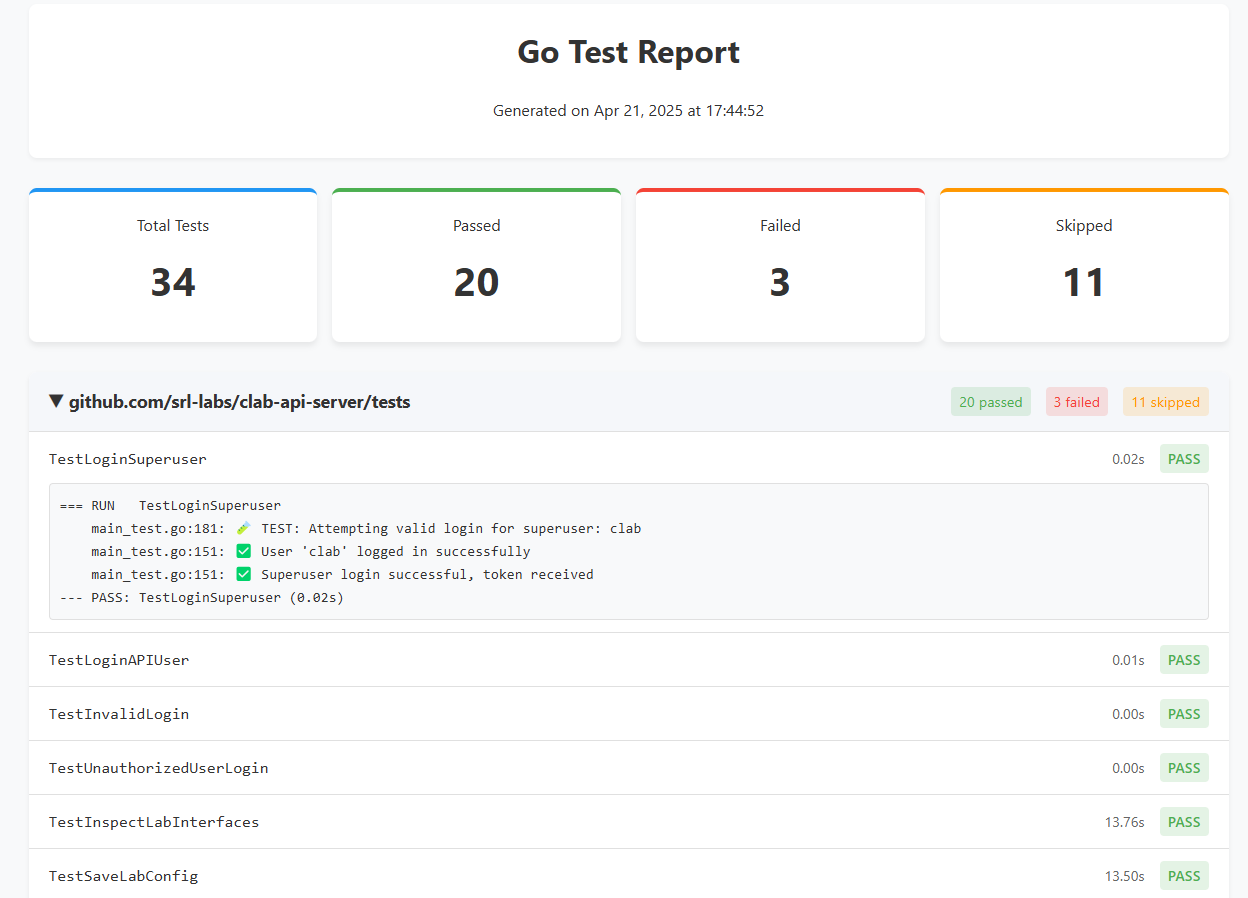
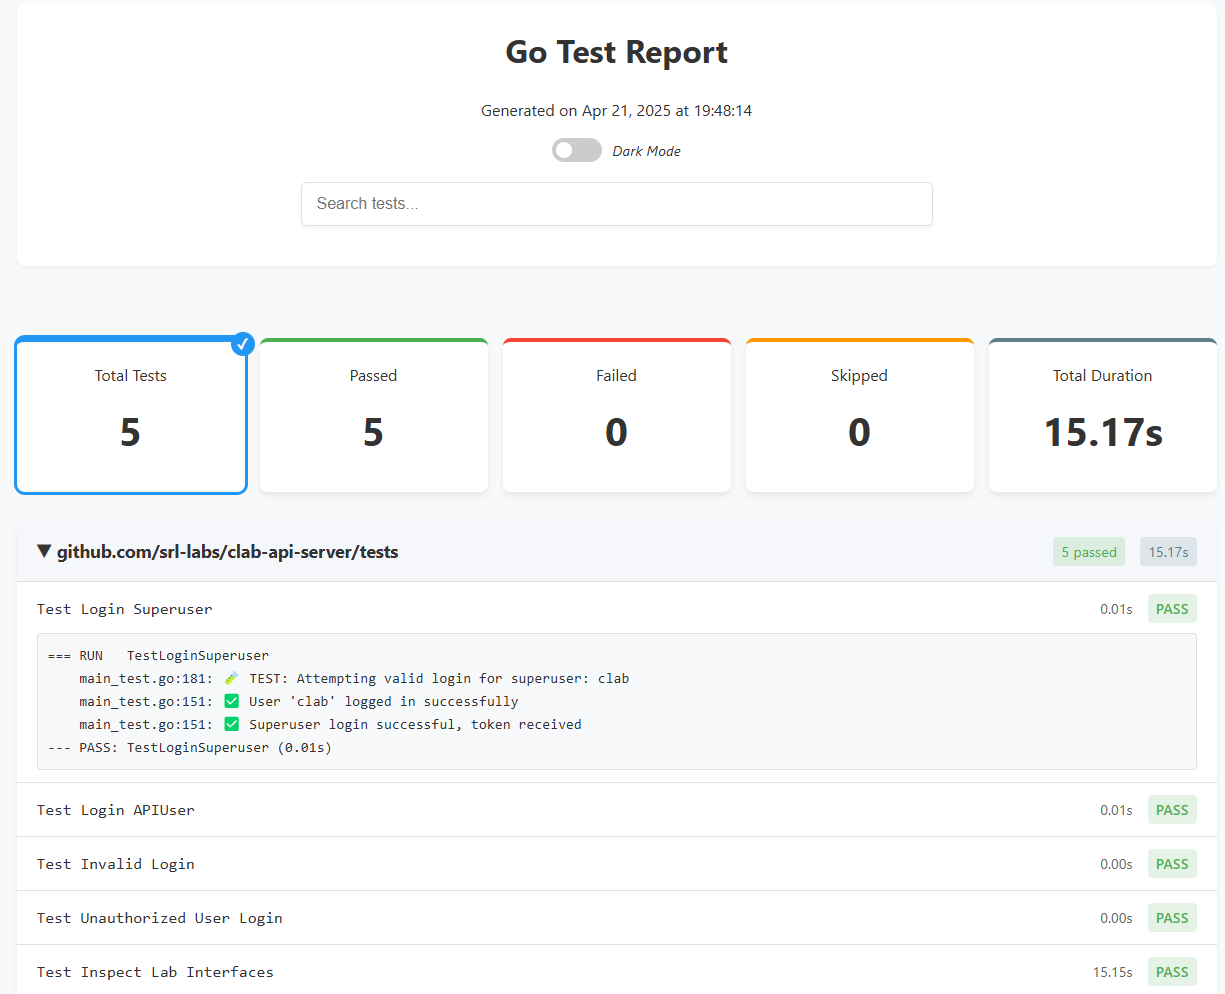
added dark mode

diff --git a/templates/report-styles.css b/templates/report-styles.css
@@ -1,4 +1,5 @@
 :root {
+    /* Light mode colors (default) */
     --success-color: #4caf50;
     --error-color: #f44336;
     --warning-color: #ff9800;
@@ -9,6 +10,26 @@
     --border-color: #e0e0e0;
     --hover-color: #f1f3f5;
     --duration-color: #607d8b;
+    --package-header-bg: #f5f7fa;
+    --test-output-bg: #f8f9fa;
+    --footer-color: #666;
+}
+
+[data-theme="dark"] {
+    /* Dark mode colors */
+    --bg-color: #121212;
+    --card-bg-color: #1e1e1e;
+    --text-color: #e0e0e0;
+    --border-color: #333333;
+    --hover-color: #2c2c2c;
+    --package-header-bg: #252525;
+    --test-output-bg: #252525;
+    --footer-color: #999;
+    /* Keep accent colors similar but with slight adjustments */
+    --success-color: #5cdb5c;
+    --error-color: #ff5252;
+    --warning-color: #ffb74d;
+    --info-color: #64b5f6;
 }
 
 body {
@@ -18,6 +39,7 @@ body {
     background-color: var(--bg-color);
     margin: 0;
     padding: 20px;
+    transition: background-color 0.3s ease, color 0.3s ease;
 }
 
 .container {
@@ -28,7 +50,7 @@ body {
 header {
     text-align: center;
     margin-bottom: 30px;
-    background-color: white;
+    background-color: var(--card-bg-color);
     padding: 20px;
     border-radius: 8px;
     box-shadow: 0 2px 4px rgba(0, 0, 0, 0.05);
@@ -53,6 +75,8 @@ h1, h2, h3 {
     font-size: 16px;
     transition: border-color 0.2s, box-shadow 0.2s;
     box-shadow: 0 2px 4px rgba(0, 0, 0, 0.05);
+    background-color: var(--card-bg-color);
+    color: var(--text-color);
 }
 
 .search-field:focus {
@@ -144,7 +168,7 @@ h1, h2, h3 {
     text-align: center;
     margin-bottom: 20px;
     font-size: 0.9rem;
-    color: #666;
+    color: var(--footer-color);
     min-height: 22px;
     transition: opacity 0.3s ease;
 }
@@ -200,7 +224,7 @@ h1, h2, h3 {
 
 .package-header {
     padding: 15px 20px;
-    background-color: #f5f7fa;
+    background-color: var(--package-header-bg);
     border-bottom: 1px solid var(--border-color);
     cursor: pointer;
     display: flex;
@@ -306,7 +330,7 @@ h1, h2, h3 {
 }
 
 .test-duration {
-    color: #666;
+    color: var(--footer-color);
 }
 
 .test-status {
@@ -331,7 +355,7 @@ h1, h2, h3 {
 }
 
 .test-output {
-    background-color: #f8f9fa;
+    background-color: var(--test-output-bg);
     border: 1px solid var(--border-color);
     border-radius: 4px;
     margin-top: 10px;
@@ -352,7 +376,7 @@ footer {
     text-align: center;
     margin-top: 30px;
     padding-top: 20px;
-    color: #666;
+    color: var(--footer-color);
     font-size: 0.9rem;
 }
 
@@ -370,15 +394,15 @@ footer {
     text-align: center;
     padding: 40px;
     font-size: 1.2rem;
-    color: #666;
-    background: white;
+    color: var(--footer-color);
+    background: var(--card-bg-color);
     border-radius: 8px;
     margin-top: 20px;
     display: none;
 }
 
 .clear-filters {
-    background-color: #f5f7fa;
+    background-color: var(--package-header-bg);
     border: 1px solid var(--border-color);
     border-radius: 4px;
     padding: 4px 8px;
@@ -390,6 +414,68 @@ footer {
 
 .clear-filters:hover {
     background-color: var(--hover-color);
+}
+
+/* Dark mode toggle styles */
+.theme-switch-wrapper {
+    display: flex;
+    align-items: center;
+    margin: 15px auto 0;
+    justify-content: center;
+}
+
+.theme-switch {
+    display: inline-block;
+    height: 24px;
+    position: relative;
+    width: 50px;
+}
+
+.theme-switch input {
+    display: none;
+}
+
+.slider {
+    background-color: #ccc;
+    bottom: 0;
+    cursor: pointer;
+    left: 0;
+    position: absolute;
+    right: 0;
+    top: 0;
+    transition: .4s;
+}
+
+.slider:before {
+    background-color: #fff;
+    bottom: 4px;
+    content: "";
+    height: 16px;
+    left: 4px;
+    position: absolute;
+    transition: .4s;
+    width: 16px;
+}
+
+input:checked + .slider {
+    background-color: var(--info-color);
+}
+
+input:checked + .slider:before {
+    transform: translateX(26px);
+}
+
+.slider.round {
+    border-radius: 34px;
+}
+
+.slider.round:before {
+    border-radius: 50%;
+}
+
+.theme-switch-wrapper em {
+    margin-left: 10px;
+    font-size: 0.9rem;
 }
 
 @media (max-width: 768px) {

diff --git a/templates/report-script.js b/templates/report-script.js
@@ -152,5 +152,63 @@ function toggleOutput(test) {
     }
 }
 
-// Initialize on page load
-document.addEventListener('DOMContentLoaded', initializeFilters);
+// Dark mode theme functionality
+function initTheme() {
+    // Check for saved theme preference or use system preference
+    const savedTheme = localStorage.getItem('theme');
+    const systemPrefersDark = window.matchMedia && window.matchMedia('(prefers-color-scheme: dark)').matches;
+
+    // Set the initial theme
+    if (savedTheme) {
+        document.documentElement.setAttribute('data-theme', savedTheme);
+        if (savedTheme === 'dark') {
+            document.getElementById('checkbox').checked = true;
+        }
+    } else if (systemPrefersDark) {
+        document.documentElement.setAttribute('data-theme', 'dark');
+        document.getElementById('checkbox').checked = true;
+    }
+}
+
+// Toggle theme when switch is clicked
+function toggleTheme() {
+    const checkbox = document.getElementById('checkbox');
+    if (checkbox.checked) {
+        document.documentElement.setAttribute('data-theme', 'dark');
+        localStorage.setItem('theme', 'dark');
+    } else {
+        document.documentElement.setAttribute('data-theme', 'light');
+        localStorage.setItem('theme', 'light');
+    }
+}
+
+// Add event listeners and initialize on page load
+document.addEventListener('DOMContentLoaded', function() {
+    initializeFilters();
+
+    // Initialize theme
+    initTheme();
+
+    // Add event listener for theme toggle
+    const themeToggle = document.getElementById('checkbox');
+    if (themeToggle) {
+        themeToggle.addEventListener('change', toggleTheme);
+    }
+
+    // Listen for system preference changes
+    const mediaQuery = window.matchMedia('(prefers-color-scheme: dark)');
+    if (mediaQuery) {
+        mediaQuery.addEventListener('change', e => {
+            // Only update if user hasn't set a preference
+            if (!localStorage.getItem('theme')) {
+                if (e.matches) {
+                    document.documentElement.setAttribute('data-theme', 'dark');
+                    document.getElementById('checkbox').checked = true;
+                } else {
+                    document.documentElement.setAttribute('data-theme', 'light');
+                    document.getElementById('checkbox').checked = false;
+                }
+            }
+        });
+    }
+});

diff --git a/templates/report-template.html b/templates/report-template.html
@@ -12,6 +12,14 @@
             <h1>{{ .Title }}</h1>
             <p>Generated on {{ .Date.Format "Jan 02, 2006 at 15:04:05" }}</p>
 
+            <div class="theme-switch-wrapper">
+                <label class="theme-switch" for="checkbox">
+                    <input type="checkbox" id="checkbox" />
+                    <div class="slider round"></div>
+                </label>
+                <em>Dark Mode</em>
+            </div>
+
             <div class="search-container">
                 <input type="text" placeholder="Search tests..." class="search-field" id="searchField">
             </div>

diff --git a/README.md b/README.md
@@ -6,11 +6,10 @@ A clean and modern HTML report generator for Go test results. This tool converts
 <img src="docs/screenshot.png" style="width:100%"/></a>
 </div>
 
-
-
 ## Features
 
 - **Beautiful HTML Reports**: Generate clean, responsive, and modern HTML reports for your Go tests
+- **Dark Mode Support**: Toggle between light and dark themes or follow system preferences
 - **Test Summary**: Get quick insights with total, passed, failed, and skipped test counts
 - **Package Organization**: Tests are neatly organized by package with expandable sections
 - **Test Details**: Easily view test output, duration, and status
@@ -33,7 +32,7 @@ go build
 
 ## Usage
 
-The tool accepts JSON test output from Go's testing package and converts it to HTML. 
+The tool accepts JSON test output from Go's testing package and converts it to HTML.
 
 Basic usage:
 
@@ -57,11 +56,55 @@ go-test2html --input test-output.json
         Report title (default "Go Test Report")
 ```
 
-## Example
+## Examples
 
-```
+### Basic Usage
+
+```bash
 # Generate a report with a custom title
 go test ./... -json | go-test2html --title "My Project Test Results" --output my-report.html
+```
+
+### With gotestsum
+
+For live test output in the terminal while still capturing JSON for reports:
+
+```bash
+# Install gotestsum if you don't have it
+go install gotest.tools/gotestsum@latest
+
+# Run tests with live output and save JSON for reporting
+gotestsum --format=standard-verbose --jsonfile=test-reports/test-output.json ./...
+
+# Generate HTML report from the saved JSON
+go-test2html --input test-reports/test-output.json --output test-reports/test-report.html
+```
+
+### Example Taskfile.yml
+
+```yaml
+version: '3'
+
+tasks:
+  deps:
+    desc: Install test dependencies
+    cmds:
+      - go install gotest.tools/gotestsum@latest
+      - go install github.com/FloSch62/go-test2html@latest
+
+  test:
+    desc: Run tests with live output and generate HTML report
+    cmds:
+      - mkdir -p test-reports
+      - gotestsum --format=standard-verbose --jsonfile=test-reports/test-output.json ./...
+      - go-test2html --input test-reports/test-output.json --output test-reports/test-report.html
+
+  test:ci:
+    desc: Run tests for CI environment
+    cmds:
+      - mkdir -p test-reports
+      - gotestsum --format=standard-verbose --jsonfile=test-reports/test-output.json --junitfile=test-reports/junit.xml ./...
+      - go-test2html --input test-reports/test-output.json --output test-reports/test-report.html
 ```
 
 ## How It Works
@@ -72,20 +115,30 @@ go test ./... -json | go-test2html --title "My Project Test Results" --output my
 4. The data is rendered into a beautiful HTML report using an embedded template
 5. The final report is saved to the specified output file
 
-## Report Preview
+## Report Features
 
 The generated HTML report includes:
 
 - A header with the title and generation date
+- Theme toggle that follows system preferences by default
 - Summary cards showing test counts (total, passed, failed, skipped)
 - Collapsible package sections with test summaries
 - Detailed test information including name, duration, and status
 - Expandable test output for debugging failed tests
 - Responsive design that works on all devices
 
+### Dark Mode
+
+The report automatically detects your system's color scheme preference and applies the appropriate theme. You can manually toggle between light and dark modes using the switch in the header. Your preference is saved between sessions.
+
+<div align=center>
+<img src="docs/screenshot_dark.png" style="width:100%"/></a>
+</div>
+
 ## Why Use This?
 
 - **Better Visibility**: See all your test results in an easy-to-read format
+- **Eye-Friendly**: Switch between light and dark themes based on your preference
 - **Easier Debugging**: Quickly identify and debug failed tests
 - **Shareable Reports**: Generate reports that can be shared with team members
 - **CI Integration**: Add test reporting to your CI/CD pipelines
